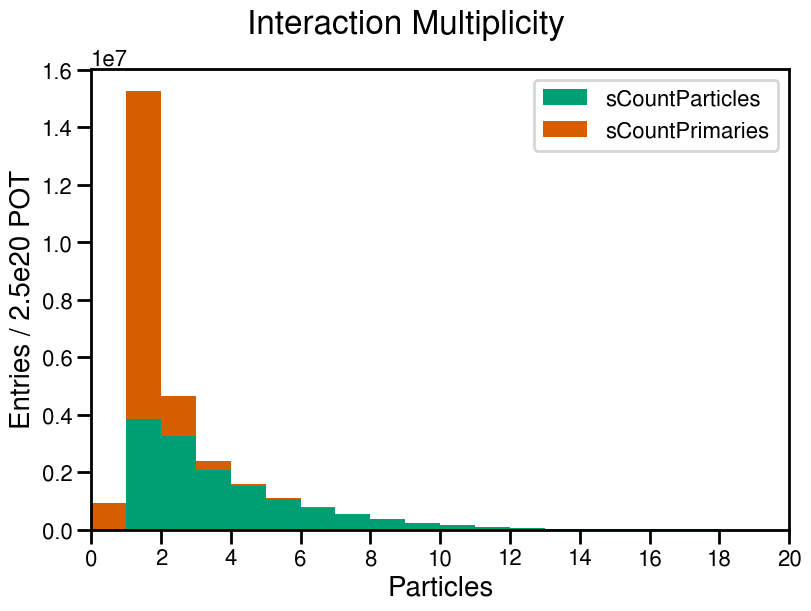
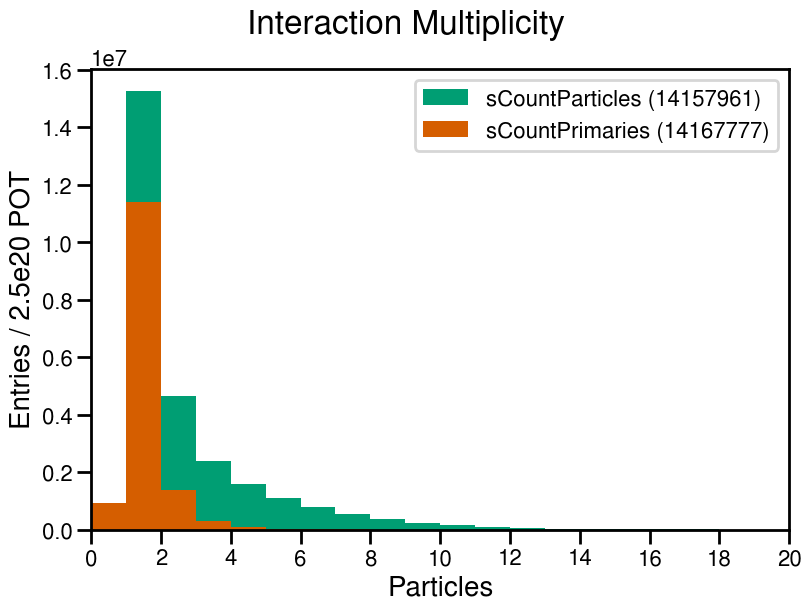
Updated plotting code for stacked histograms to more efficiently reverse stack order

diff --git a/plotting/plot_funcs.py b/plotting/plot_funcs.py
@@ -164,26 +164,32 @@ def plot_histogram_1d(rf, desc):
             edges = [edges[m[0]] for m in desc.merge]
             labels = [labels[m[0]] for m in desc.merge]
             cs = [cs[m[-1]] for m in desc.merge]
+        
+    if desc.plot_kwargs.get('histtype', 'none') == 'barstacked':
         cs = cs[::-1]
         contents = contents[::-1]
         centers = centers[::-1]
         edges = edges[::-1]
         labels = labels[::-1]
+
     ax.hist(centers, weights=contents, range=(edges[0][0], edges[0][-1]), bins=edges[0], label=labels, color=cs, **desc.plot_kwargs)
     ax.set_xlim(edges[0][0], edges[0][-1])
     ax.set_xlabel(desc.xlabel)
     ax.set_ylabel(desc.ylabel)
     ax.xaxis.set_major_locator(MaxNLocator(integer=True))
-    if isinstance(desc.var, list):
-        ax.legend()
+    h, l = ax.get_legend_handles_labels()
+
+    show_percentage = hasattr(desc, 'show_percentage') and desc.show_percentage
+    if show_percentage:
+        l = [f'{l} ({np.sum(contents[li]):.0f}, {np.sum(contents[li]) / np.sum(contents):.02%})'for li, l in enumerate(l)]
     else:
-        show_percentage = hasattr(desc, 'show_percentage') and desc.show_percentage
-        h, l = ax.get_legend_handles_labels()
-        if show_percentage:
-            l = [f'{l} ({np.sum(contents[li]):.0f}, {np.sum(contents[li]) / np.sum(contents):.02%})'for li, l in enumerate(l)]
-        else:
-            l = [f'{l} ({np.sum(contents[li]):.0f})'for li, l in enumerate(l)]
-        ax.legend(h[::-1], l[::-1])
+        l = [f'{l} ({np.sum(contents[li]):.0f})'for li, l in enumerate(l)]
+
+    if desc.plot_kwargs.get('histtype', 'none') == 'barstacked':
+        h = h[::-1]
+        l = l[::-1]
+
+    ax.legend(h, l)
     figure.suptitle(desc.title)
     figure.savefig(desc.save)
     plt.close(figure)
